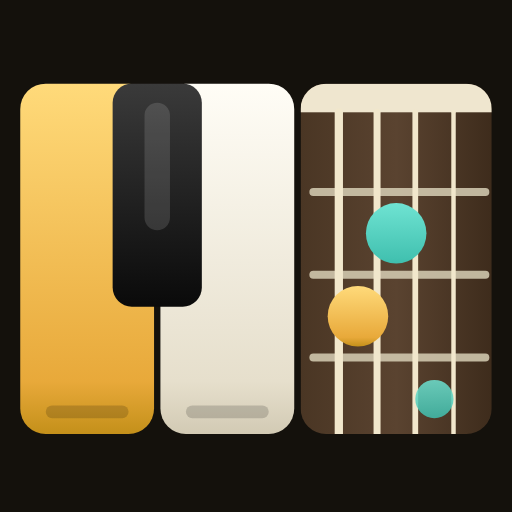
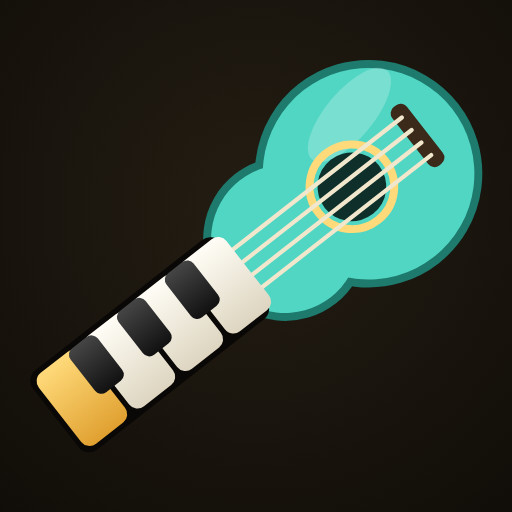
App 圖示重畫:吉他琴頸換成鋼琴鍵,兩者融為一體
Claude-Session: https://claude.ai/code/session_01FaA3Kigtmd7x1sXbjPTHwx

diff --git a/index.html b/index.html
@@ -13,8 +13,8 @@
 <meta name="apple-mobile-web-app-status-bar-style" content="black">
 <meta name="apple-mobile-web-app-title" content="HarmonyMap">
 <meta name="application-name" content="HarmonyMap">
[4 lines of base64/hex data omitted]
 <title id="pageTitle">HarmonyMap — 和弦與音階地圖</title>
 <link rel="preconnect" href="https://fonts.googleapis.com">
 <link href="https://fonts.googleapis.com/css2?family=Noto+Serif+TC:wght@600;700&family=Noto+Sans+TC:wght@400;500;700&display=swap" rel="stylesheet">

diff --git a/docs/layout.md b/docs/layout.md
@@ -75,7 +75,7 @@
 - 結果面板標題右邊「+ 加入練習」:把目前的和弦(含斜線低音)排進練習進行,練習按鈕上有數字(`#practiceCount`)
 - 頂欄右上的 **?** 打開使用說明卡片(`toggleHelp`,內容照目前語言即時產生),列出看不出來的操作:
   斜線輸入、點音名單音、滑和弦圖撥弦、搜尋打和弦名稱、練習、快捷鍵、加到主畫面。點外面或 Esc 關掉
-- **加到主畫面**:`apple-mobile-web-app-capable` 等 meta + 內嵌的 PNG 圖示(180 與 32,深色底上左半是鋼琴(金、象牙白鍵 + 一顆黑鍵)、右半是吉他琴頸(琴枕、品絲、四條弦、青與金的音點),兩者並排融合,可愛風,使用者要求;原始圖檔 `docs/icon.svg`、512px 版 `docs/icon-512.png`(上架 App Store 用)),
+- **加到主畫面**:`apple-mobile-web-app-capable` 等 meta + 內嵌的 PNG 圖示(180 與 32,深色底上一把斜放的青色吉他,琴頸換成一排鋼琴鍵(金、象牙白鍵 + 黑鍵),鋼琴與吉他融為一體,可愛風,使用者要求;原始圖檔 `docs/icon.svg`、512px 版 `docs/icon-512.png`(上架 App Store 用)),
   iPhone Safari「分享 → 加入主畫面」就像 App 一樣全螢幕打開。圖示是 data URI,仍然是單檔
 
 ## 介面上的記號
